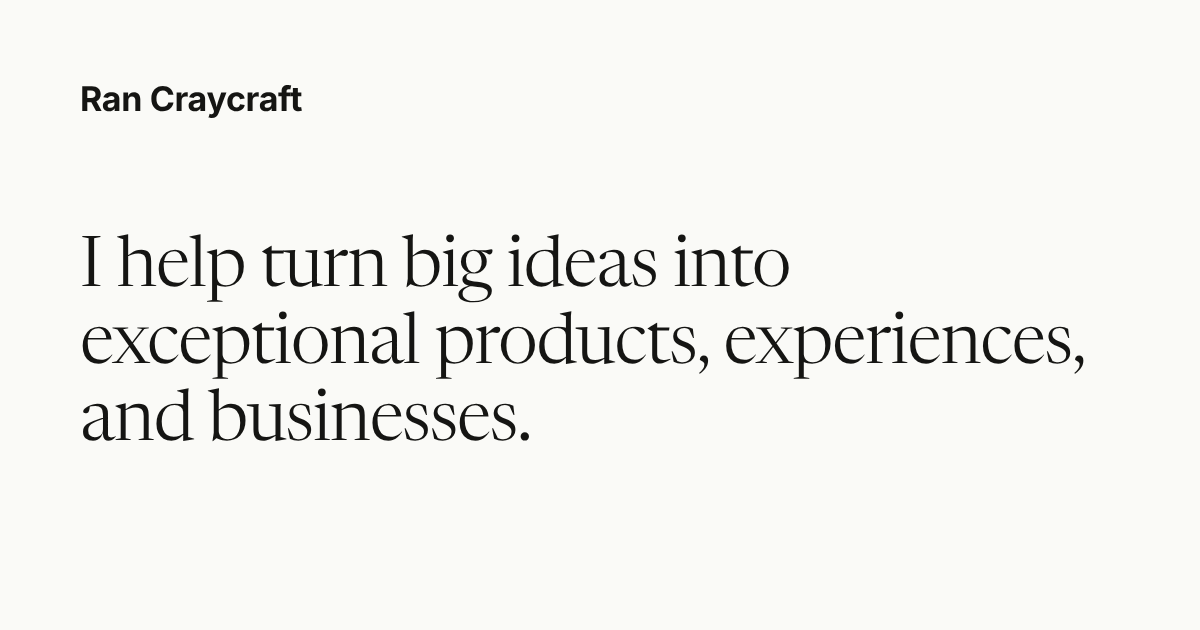
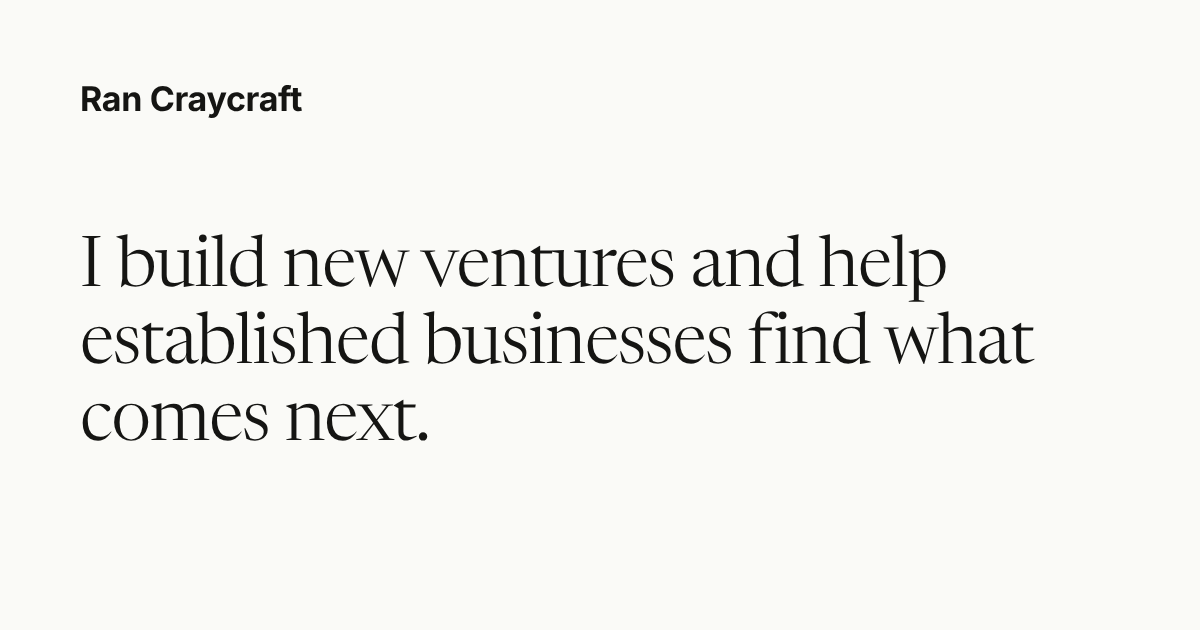
updating site copy

Changed region(s): [[0.0617, 0.3619, 0.8942, 0.7238]]

diff --git a/src/assets/css/site.css b/src/assets/css/site.css
@@ -70,7 +70,7 @@ a, button { -webkit-tap-highlight-color: transparent; touch-action: manipulation
 .serif { font-family: var(--serif); font-optical-sizing: auto; }
 .eyebrow { font-size: 13px; line-height: 1.5; font-weight: 450; letter-spacing: 0.01em; color: var(--muted); }
 .eyebrow.strong, .strong { color: var(--ink); font-weight: 500; }
-.meta { font-size: 13px; line-height: 1.5; color: var(--muted); font-variant-numeric: tabular-nums; }
+.meta { font-size: 14px; line-height: 1.5; color: var(--muted); font-variant-numeric: tabular-nums; }
 .dot { margin: 0 0.45em; color: var(--rule-2); }
 .ext { font-family: var(--sans); }
 .lede { font-size: clamp(19px, 1.55vw, 23px); line-height: 1.45; font-weight: 360; color: var(--ink-2); max-width: 34em; text-wrap: pretty; }
@@ -111,14 +111,14 @@ a, button { -webkit-tap-highlight-color: transparent; touch-action: manipulation
 .hero-title { font-size: clamp(38px, 6.4vw, 96px); line-height: 1.01; letter-spacing: -0.032em; font-weight: 320; max-width: 13.5em; text-wrap: balance; }
 .hero-body { margin-top: clamp(40px, 5.5vw, 80px); }
 .hero-body .eyebrow { padding-top: 0.4em; }
-.hero-now { margin-top: 24px; font-size: 15px; color: var(--muted); max-width: 40em; }
+.hero-now { margin-top: 24px; font-size: 17px; color: var(--muted); max-width: 40em; }
 .hero-more { margin-top: 32px; display: flex; flex-wrap: wrap; align-items: center; gap: 16px 24px; }
 .hero-more > .arrow-link, .closing-actions > .arrow-link { margin-left: 0; }
 
 /* Section heads */
 .section-head { display: grid; grid-template-columns: repeat(12, minmax(0, 1fr)); column-gap: var(--col-gap); align-items: center; border-top: 1px solid var(--ink); padding-top: 14px; margin-bottom: clamp(32px, 4vw, 48px); }
 .section-head > :first-child { grid-column: 1 / span 3; }
-.section-note { grid-column: 4 / span 5; font-size: 13px; color: var(--muted); }
+.section-note { grid-column: 4 / span 5; font-size: 14px; color: var(--muted); }
 .section-head .carousel-nav, .section-head .filter { grid-column: 9 / -1; justify-self: end; }
 .section-foot { margin-top: clamp(32px, 4vw, 48px); }
 
@@ -137,9 +137,11 @@ a:hover .cover, a:hover .cover-img { transform: scale(1.02); }
 .card .eyebrow { margin-top: 18px; }
 .card-title { margin-top: 16px; font-size: 21px; line-height: 1.22; font-weight: 380; letter-spacing: -0.006em; text-wrap: balance; }
 .card .eyebrow + .card-title { margin-top: 6px; }
-.card-meta { margin-top: 10px; font-size: 13px; color: var(--muted); }
+.offer-text.lead-text { max-width: 44em; font-size: 18px; }
+.card-highlight { margin-top: 10px; font-size: 16px; line-height: 1.5; color: var(--ink-2); text-wrap: pretty; }
+.card-meta { margin-top: 10px; font-size: 14px; color: var(--muted); }
 .card-title-lg { font-size: clamp(24px, 2.2vw, 30px); line-height: 1.18; font-weight: 360; letter-spacing: -0.012em; }
-.card-desc { margin-top: 8px; font-size: 15px; line-height: 1.5; color: var(--muted); display: -webkit-box; -webkit-line-clamp: 2; -webkit-box-orient: vertical; overflow: hidden; text-wrap: pretty; }
+.card-desc { margin-top: 8px; font-size: 16px; line-height: 1.5; color: var(--muted); display: -webkit-box; -webkit-line-clamp: 2; -webkit-box-orient: vertical; overflow: hidden; text-wrap: pretty; }
 .card:hover .card-title, .entry:hover .entry-title { text-decoration: underline; text-decoration-thickness: 1px; text-underline-offset: 0.18em; text-decoration-color: var(--rule-2); }
 
 /* Stories carousel. Starts on the grid and runs off the right edge of the window. */
@@ -167,9 +169,9 @@ a:hover .cover, a:hover .cover-img { transform: scale(1.02); }
 .section-links .arrow-link + .arrow-link { margin-left: 0; }
 .piece { display: flex; flex-direction: column; }
 .piece-body { display: flex; flex-direction: column; }
-.piece-kind { margin-top: 16px; font-size: 13px; color: var(--muted); font-variant-numeric: tabular-nums; }
+.piece-kind { margin-top: 16px; font-size: 14px; color: var(--muted); font-variant-numeric: tabular-nums; }
 .piece-title { margin-top: 6px; font-size: 21px; line-height: 1.22; font-weight: 380; letter-spacing: -0.008em; text-wrap: balance; }
-.piece-desc { margin-top: 8px; font-size: 15px; line-height: 1.5; color: var(--ink-2); display: -webkit-box; -webkit-line-clamp: 3; -webkit-box-orient: vertical; overflow: hidden; text-wrap: pretty; }
+.piece-desc { margin-top: 8px; font-size: 16px; line-height: 1.5; color: var(--ink-2); display: -webkit-box; -webkit-line-clamp: 3; -webkit-box-orient: vertical; overflow: hidden; text-wrap: pretty; }
 .piece:hover .piece-title { text-decoration: underline; text-decoration-thickness: 1px; text-underline-offset: 0.18em; text-decoration-color: var(--rule-2); }
 
 .text-panel { aspect-ratio: 4 / 3; display: flex; flex-direction: column; justify-content: space-between; padding: clamp(18px, 2vw, 28px); background: var(--ink); color: var(--paper); }
@@ -199,7 +201,7 @@ a:hover .text-panel-title { transform: translateY(-3px); }
 .line { display: grid; grid-template-columns: minmax(0, 1fr) 150px; column-gap: var(--col-gap); align-items: baseline; padding: 13px 0; }
 .line-main { min-width: 0; }
 .line-title { font-size: clamp(18px, 1.5vw, 20px); line-height: 1.3; font-weight: 380; text-wrap: balance; transition: color 200ms var(--ease); }
-.line-meta { display: flex; justify-content: space-between; gap: 12px; font-size: 13px; color: var(--muted); font-variant-numeric: tabular-nums; }
+.line-meta { display: flex; justify-content: space-between; gap: 12px; font-size: 14px; color: var(--muted); font-variant-numeric: tabular-nums; }
 .line-kind { color: var(--ink-2); }
 .line-thumb { display: none; }
 .entries-feed:hover .line-title { color: var(--muted); }

diff --git a/eleventy.config.js b/eleventy.config.js
@@ -64,7 +64,8 @@ export default function (eleventyConfig) {
   eleventyConfig.addFilter("stories", (posts) =>
     posts
       .filter((p) => p.data.kind === "story")
-      .sort((a, b) => (b.data.case_study?.start || 0) - (a.data.case_study?.start || 0) || b.date - a.date)
+      // Featured leadership stories lead, in their set order, then everything else by when the work began
+      .sort((a, b) => (a.data.featured || 99) - (b.data.featured || 99) || (b.data.case_study?.start || 0) - (a.data.case_study?.start || 0) || b.date - a.date)
   );
   // What to read after a story. Uses the story's read_next picks, otherwise the next story in career order.
   eleventyConfig.addFilter("readNext", (posts, page, picks = []) => {

diff --git a/CLAUDE.md b/CLAUDE.md
@@ -67,6 +67,10 @@ To add one, make a single-color PNG in `src/assets/images/logos/`: flatten on wh
 
 The wordmark is plain text, "Ran Craycraft" in Inter Tight Bold (self-hosted, so it looks the same everywhere). The favicon (`src/assets/favicon.svg`) and the home-screen icons (`apple-touch-icon.png`, `icon-512.png`) are Inter Tight's bold R in paper on an ink square. Ran tried a filled-in R in the wordmark and favicon and didn't like it, so leave the R as a normal letter. He also passed on a serif R for the favicon or wordmark, so keep both sans.
 
+## Leadership first
+
+The homepage leads with executive value. The carousel opens with three featured leadership stories, set with `featured: 1`, `2` and `3` in front matter (thoughtbot, AOL, Wildebeest). Each has a `highlight`, one verified outcome with its years written into the sentence, shown on the card in place of the description. Only use outcomes Ran has confirmed. The Work together page separates leadership opportunities from selective consulting.
+
 ## Read next
 
 Every Leading piece ends with "Read next", up to two others chosen in its front matter:

diff --git a/src/posts/2026-10-01-meeting-prep.md b/src/posts/2026-10-01-meeting-prep.md
@@ -32,3 +32,10 @@ That small addition has greatly reduced our no-shows.
 A brief with one wrong fact is worse than no brief. Facts only count when both the name and the company match, so a namesake's career never ends up in front of you. A second pass checks every claim against its sources before you see it.
 
 The question I'm asking is whether the brief is good enough that you stop doing your own research, and which part you'd still check by hand.
+
+<!-- TO ADD, to connect this tool to your judgment. Answer in a sentence or two each:
+1. Who had the problem, and what was it costing them?
+2. What did you personally do, from spotting it to building it?
+3. What changed after people used it? A number or a before and after helps.
+4. Is it an experiment, a tool the team adopted, or something you'd sell?
+-->

diff --git a/src/posts/2026-10-05-qualifier.md b/src/posts/2026-10-05-qualifier.md
@@ -30,3 +30,10 @@ I think any tool that edits sales data should ask first and explain itself after
 ## What I'm watching
 
 Whether what it writes is close enough to what a person would write that we stop editing it, and whether the contact briefs change who we reach out to first.
+
+<!-- TO ADD, to connect this tool to your judgment. Answer in a sentence or two each:
+1. Who had the problem, and what was it costing them?
+2. What did you personally do, from spotting it to building it?
+3. What changed after people used it? A number or a before and after helps.
+4. Is it an experiment, a tool the team adopted, or something you'd sell?
+-->

diff --git a/src/leading/building-the-next-chapter-of-thoughtbot.md b/src/leading/building-the-next-chapter-of-thoughtbot.md
@@ -27,6 +27,8 @@ read_next:
     why: What I took on alongside it
   - story: wildebeest
     why: The consultancy I ran before
+featured: 1
+highlight: "Since 2023, grew from one of five Managing Directors to the only one, and reshaped how the Americas business sells, staffs and delivers."
 ---
 
 ## The situation

diff --git a/src/leading/launching-new-ventures-at-aol.md b/src/leading/launching-new-ventures-at-aol.md
@@ -24,6 +24,8 @@ read_next:
     why: What came next
   - story: new-digital-experiences-at-nbc
     why: Where the media work started
+featured: 2
+highlight: "From 2011 to 2013, launched AOL Industry from zero, then ran AOL Entertainment, a $40M P&L and a 70-person organization."
 ---
 
 ## The situation

diff --git a/src/leading/wildebeest.md b/src/leading/wildebeest.md
@@ -23,6 +23,8 @@ read_next:
     why: What came next
   - story: bringing-north-kingdom-to-the-us
     why: The studio before this one
+featured: 3
+highlight: "From 2014 to 2023, co-founded and ran an award-winning studio for clients including Google, YouTube, Disney and GM."
 ---
 
 ## The situation
